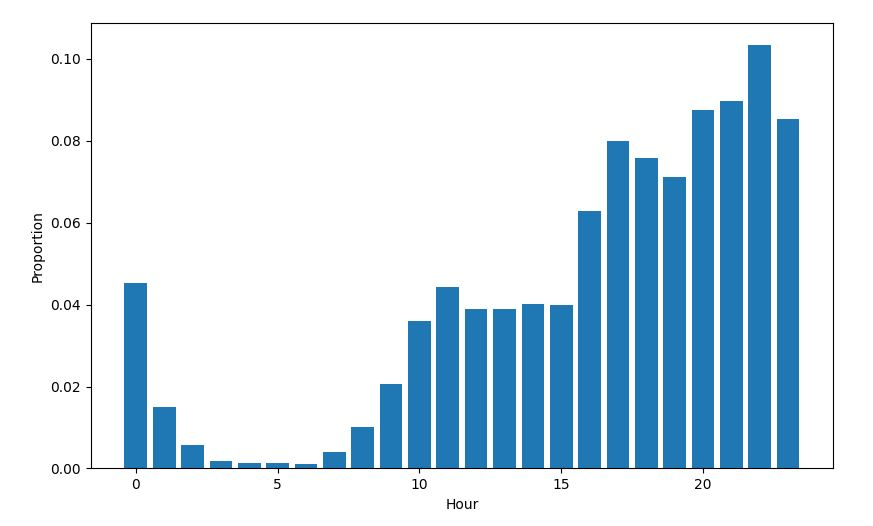
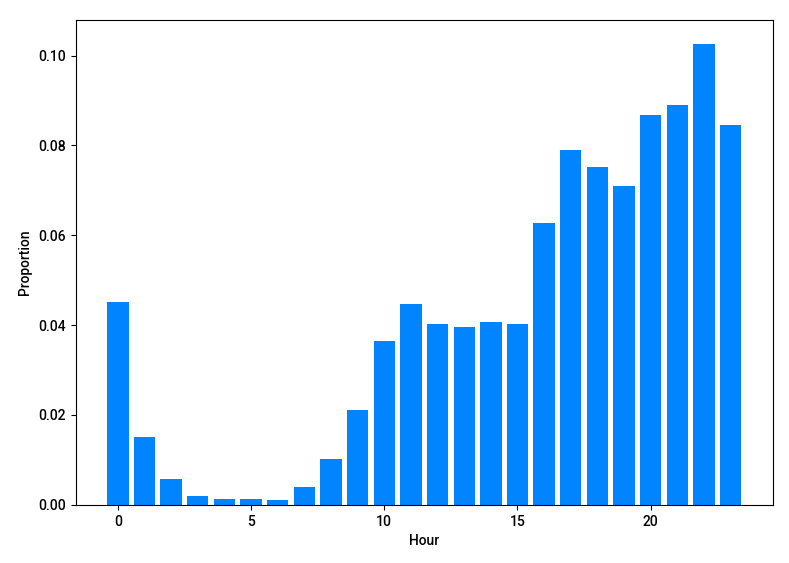
Update README graphics

Changed region(s): [[0.0, 0.0304, 0.9734, 0.943], [0.5171, 0.943, 0.5779, 0.9734]]

diff --git a/README.md b/README.md
@@ -77,7 +77,7 @@ Identifies who you have exchanged the most messages with ever! WARNING: Results 
 Shows activity over time. May be able to identify cyclical patterns or trends. Can also see the effect of certain events on your messaging habits (e.g. Do I talk to more people during a global pandemic?)
 <br>
 
-![alt text](./img/msg_v_time.JPG)
+![alt text](./img/msg_v_time.PNG)
 
 ### Messages over time with a specific contact (sent and received)
 Similar to above. 
@@ -93,7 +93,7 @@ Provides information on when you are most likely to reply. Can be used to identi
 For a specific contact, identify which words you are more likely to type opposed to your contact. 
 <br>
 
-![alt text](./img/word_spectrum2.JPG)
+![alt text](./img/wordspectrum.PNG)
 
 ## Next Steps/Features
 * Date range filter
